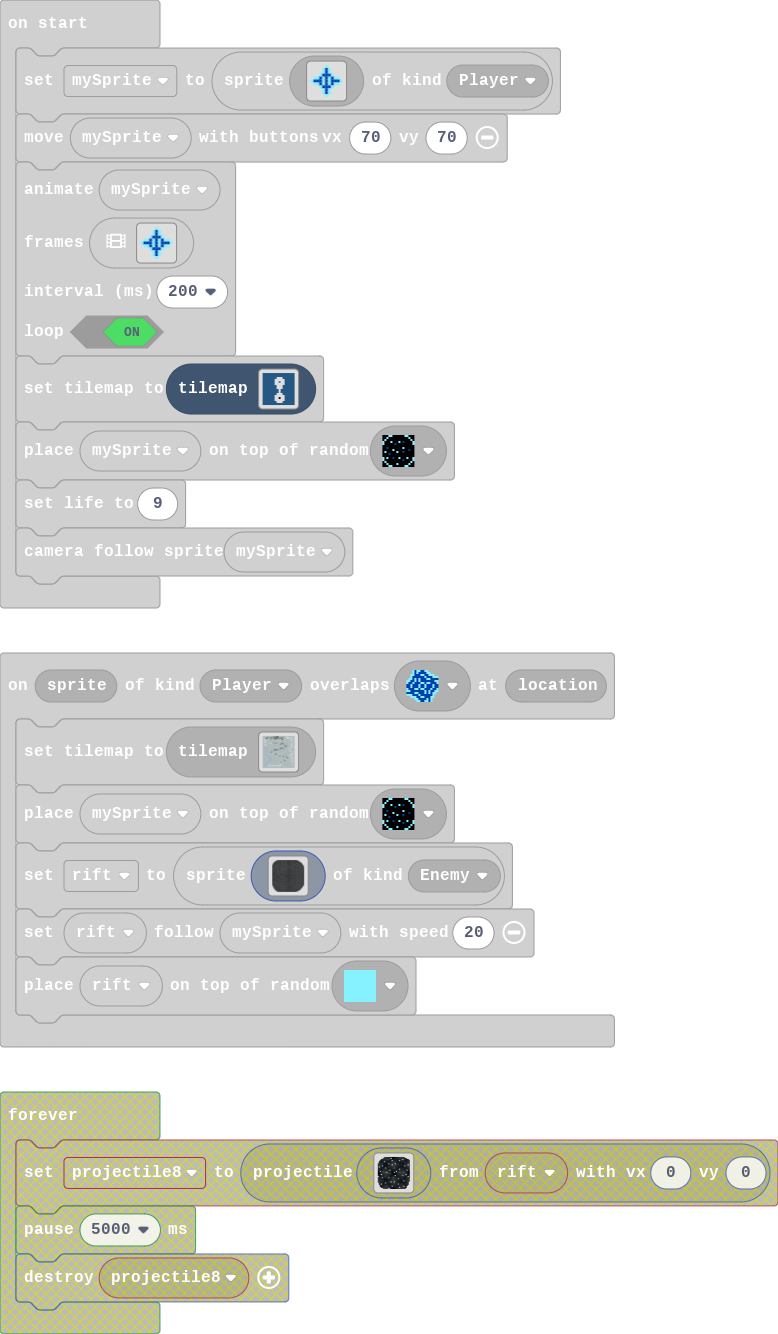
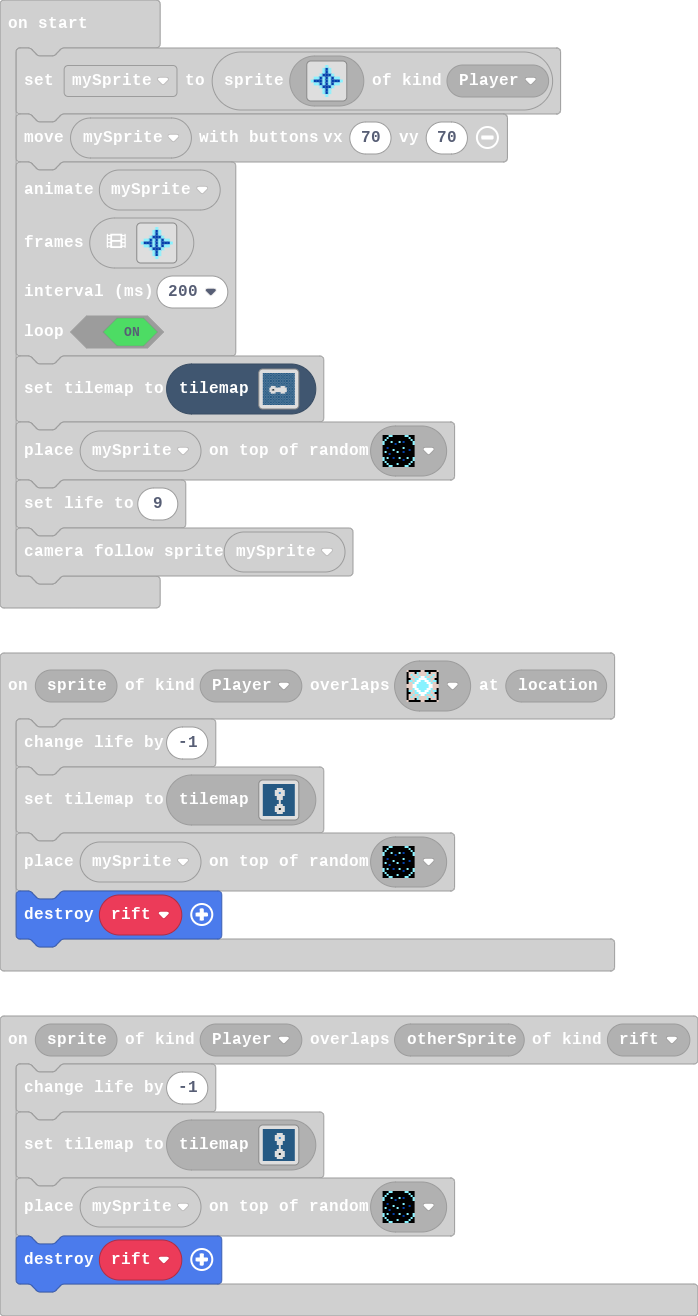
Update main.blocks, main.ts, tilemap.g.jres, tilemap.g.ts

diff --git a/tilemap.g.ts b/tilemap.g.ts
@@ -61,9 +61,9 @@ namespace myTiles {
     //% fixedInstance jres blockIdentity=images._tile
     export const tile31 = image.ofBuffer(hex``);
     //% fixedInstance jres blockIdentity=images._tile
-    export const tile28 = image.ofBuffer(hex``);
-    //% fixedInstance jres blockIdentity=images._tile
     export const tile29 = image.ofBuffer(hex``);
+    //% fixedInstance jres blockIdentity=images._tile
+    export const tile28 = image.ofBuffer(hex``);
 
     helpers._registerFactory("tilemap", function(name: string) {
         switch(helpers.stringTrim(name)) {
@@ -185,89 +185,6 @@ namespace myTiles {
 . . . . . . . . . . . . . . . . 
 . . . . . . . . . . . . . . . . 
 `, [myTiles.transparency16,myTiles.tile1,myTiles.tile2,myTiles.tile17], TileScale.Sixteen);
-            case "level10":
-            case "level10":return tiles.createTilemap(hex`5000500002020202020202020202020202020202020202020202020202020202020202020202020202020202020202020202020202020202020202020202020202020202020202020202020202020202020202020202020202020202020202020202020202020202020202020202020202020202020202020202020202020202020202020202020202020202020202020202020202020202020202020202020202020202020202020202020202020202020202020202020202020202020202020202020202020202020202020202020202020202020202020202020202020202020202020202020202020202020202020202020202020202020202020202020202020202020202020202020202020202020202020202020202020202020202020202020202020202020202020202020202020202020202020202020202020202020202020202020202020202020202020202020202020202020202020202020202020202020202020202020202020202020202020202020202020202020202020202020202020202020202020202020202020202020202020202020202020202020202020202020202020202020202020202020202020202020202020202020202020202020202020202020202020202020202020202020202020202020202020202020202020202020202020202020202020202020202020202020202020202020202020202020202020202020202020202020202020202020202020202020202020202020202020202020202020202020202020202020202020202020202020202020202020202020202020202020202020202020202020202020202020202020202020202020202020202020202020202020202020202020202020202020202020202020202020202020202020202020202020202020202020202020202020202020202020202020202020202020202020202020202020202020202020202020202020202020202020202020202020202020202020202020202020202020202020202020202020202020202020202020202020202020202020202020202020202020202020202020202020202020202020202020202020202020202020202020202020202020202020202020202020202020202020202020202020202020202020202020202020202020202020202020202020202020202020202020202020202020202020202020202020202020202020202020202020202020202020202020202020202020202020202020202020202020202020202020202020202020202020202020202020202020202020202020202020202020202020202020202020202020202020202020202020202020202020202020202020202020202020202020202020202020202020202020202020202020202020202020202020202020202020202020202020202020202020202020202020202020202020202020202020202020202020202020202020202020202020202020202020202020202020202020202020202020202020202020202020202020202020202020202020202020202020202020202020202020202020202020202020202020202020202020202020202020202020202020202020202020202020202020202020202020202020202020202020202020202020202020202020202020202020202020202020202020202020202020202020202020202020202020202020202020202020202020202020202020202020202020202020202020202020202020202020202020202020202020202020202020202020202020202020202020202020202020202020202020202020202020202020202020202020202020202020202020202020202020202020202020202020202020202020202020202020202020202020202020202020202020202020202020202020202020202020202020202020202020202020202020202020202020202020202020202020202020202020202020202020202020202020202020202020202020202020202020202020202020202020202020202020202020202020202020202020202020202020202020202020202020202020202020202020202020202020202020202020202020202020202020202020202020202020202020202020202020202020202020202020202020202020202020202020202020202020202020202020202020202020202020202020202020202020202020202020202020202020202020202020202020202020202020202020202020202020202020202020202020202020202020202020202020202020202020202020202020202020202020202020202020202020202020202020202020202020202020202020202020202020202020202020202020202020202020202020202020202020202020202020202020202020202020202020202020202020202020202020202020202020202020202020202020202020202020202020202020202020202020202020202020202020202020202020202020202020202020202020202020202020202020202020202020202020202020202020202020202020202020202020202020202020202020202020202020202020202020202030303030303030303030303030303020202020202020202020202020202020202020202020202020202020202020202020203030302020202020202020202020202020202020202020202030303030303020202020202020202020202020303030303030202020202020202020202020202020202020202020202020202020202030303030302020202020202020202020202020202020202020303020202020202030303030303030303030302020202020203030202020202020202020202020202020202020202020202020202020203030603030202020202020202020202020202020202020203030202030303030303020202020202020202030303030303020203030202020202020202020202020202020202020202020202020202020303030303020202020202020202020202020202020202030302020303020202020302020202020202020203020202020303020203030202020202020202020202020202020202020202020202020202020303030202020202020202020202020202020202020303020203030202020202030303030303030303030302020202020303020203030202020202020202020202020202020202020202020202020202020302020202020202020202020202020202020202030202030302020202020203020202020202020202030202020202020303020203020202020202020202020202020202020202020202020202020202030202020202020202020202020202020202020203020303020202030303030302030303030303030203030303030202020303020302020202020202020202020202020202020202020202020202020203020202020202020202020202020202020202020302030202020303020202020203020202020203020202020203030202020302030202020202020202020202020202020202020202020202020202020302020202020202020202020202020202020202030203020202030202030303030302020202020303030303020203020202030203020202020202020202020202020202020202020202020202020202030202020202020202020202020202020202020303020302020203020303020202030303030303030202020303020302020203020303050303030303050503030303050303030303030303020202020203020202020202020202020202020202020202030202030202020302030203030303020202020203030303020302030202020302020302020302020302020302020302020302020302020302020202020402020202020202020202020202020202020203020303030303030203020302020302020202020302020302030203030303030302030202050202030202030202030202030202050202030202020202040202020202020202020202020202020202020302030202030202020302030202030303030303030202030203020202030202030203050503030303050503050503050503030303050303020202020204020202020202020202020202020202020202030203020203020303030303030303020203020203030303030303030203020203020302020302020302020302020302020502020302020302020202020402020202020404040404020202020202020203020302020302030202030202030202030303020203020203020203020302020302030202030202050202030202030202050202030202030202020202040202020202040202020402020202020202020302030202030203020203020203020303030303020302020302020302030202030203050303030303050503050503030303050503050503020202020204040402020204020202040202040404040403030203020203020302020302020303030301030303030202030202030203020203040302020302020302020302020502020302020302020302020202020202040202020402020204020204020202020203020302020302030202030202030203030303030203020203020203020302020302030202050202030202030202050202030202030202030202020202020204020202040202020202020402020202020302030202030203020203020203020203030302020302020302020302030202030203030303050303050503030303050503050503050303020202020202020402020204020202040202040202020202030203020203020303030303030303020203020203030303030303030203020203020302020302020302020302020302020302020302020302020202020202040404040402020204040404020202020203020302020302020203020302020303030303030302020302030202020302020302030202030202030202050202030202030202030202030202020202020202020202020202020202020202020202020302030303030303020302030202030202020202030202030203020303030303030203050503030303050503030303050503030303050303020202020202020202020202020202020202020202020202030202030202020302030203030303020202020203030303020302030202020302020302020502020302020302020302020502020502020302020202020202020202020202020202020202020202020203030203020202030203030202020303030303030302020203030203020202030203030505030303030303030503030305030303030303030202020202020202020202020202020202020202020202020203020302020203020203030303030202020202030303030302020302020203020302020202020202020202020202020202020202020203020202020202020202020202020202020202020202020202020302030202020303020202020203020202020203020202020203030202020302030202020202020202020202020202020202020202020302020202020202020202020202020202020202020202020202030203030202020303030303020303030303030302030303030302020203030203020202020202020202020202020202020202020202030202020202020202020202020202020202020202020202020203020203030202020202020302020202040202020203020202020202030302020302020202020202020202020202020202020202020203020202020202020202020202020202020202020202020202020303020203030202020202030303030303030303030302020202020303020203030202020202020202020202020202020202020202020302020202020202020202020202020202020202020202020202020303020203030202020203020202020202020202030202020203030202030302020202020202020202020202020202020202020202030202020202020202020202020202020202020202020202020202020303020203030303030302020202020202020203030303030302020303020202020202020202020202020202020202020202020202020202020202020202020202020202020202020202020202020202020303020202020202030303030303030303030303020202020203030202020202020202020202020202020202020202020202020202020202020202020202020202020202020202020202020202020202020303030303030202020202020202020202020202030303030302020202020202020202020202020202020202020202020202020202020202020202020202020202020202020202020202020202020202020202020203030303030303030303030303030303020202020202020202020202020202020202020202020202020202020202020202020202020202020202020202020202020202020202020202020202020202020202020202020203020202020202020202020202020202020202020202020202020202020202020202020202020202020202020202020202020202020202020202020202020202020202020202020202020202020202020302020202020202020202020202020202020202020202020202020202020202020202020202020202020202020202020202020202020202020202020202020202020202020202020203030303030303030303030303030303020202020202020202020202020202020202020202020202020202020202020202020202020202020202020202020202020202020202020202020202020202020202030202030202020202020202020402020202020202020202020202020202020202020202020202020202020202020202020202020202020202020202020202020202020202020202020202020202020203020202020203030202030302030202020202020202020202020202020202020202020202020202020202020202020202020202020202020202020202020202020202020202020202020202020203040303030402020202020302020203020202020202020202020202020202020202020202020202020202020202020202020202020202020202020202020202020202020202020202020202020202020402020202030304030302030403030402020202020202020202020202020202020202020202020202020202020202020202020202020202020202020202020202020202020202020202020202020204030302020302020302020302030202020202020202020202020202020202020202020202020202020202020202020202020202020202020202020202020202020202020202020202020202020202020402020302030202030202030203020202020202020202020202020202020202020202020202020202020202020202020202020202020202020202020202020202020202020202020202020202020202030302030204030304030302020403030402020202020202020202020202020202020202020202020202020202020202020202020202020202020202020202020202020202020202020202020202020202040302020302020302030302020202030202020202020202020202020202020202020202020202020202020202020202020202020202020202020202020202020202020202020202020202020202020202030202030202030202020302020203020202020202020202020202020202020202020202020202020202020202020202020202020202020202020202020202020202020202020202020202020202030304030304030302020202030403030402020202020202020202020202020202020202020202020202020202020202020202020202020202020202020202020202020202020202020202020202020202020302020302020302020202030202020202020202020202020202020202020202020202020202020202020202020202020202020202020202020202020202020202020202020202020202020202020202030202030202030202020203020202020202020202020202020202020202020202020202020202020202020202020202020202020202020202020202020202020202020202020202020202020202030202030202030202020403030402020202020202020202020202020202020202020202020202020202020202020202020202020202020202020202020202020202020202020202020202020202020203020203020203020302030202020202020202020202020202020202020202020202020202020202020202020202020202020202020202020202020202020202020202020202020202020202020202020202030202030202030203020202020202020202020202020202020202020202020202020202020202020202020202020202020202020202020202020202020202020202020202020202020202020202020203020203020302020403020202020202020202020202020202020202020202020202020202020202020202020202020202020202020202020202020202020202020202020202020202020202020202030202030202030202020302020202020202020202020202020202020202020202020202020202020202020202020202020202020202020202020202020202020202020202020202020202020203030303030303030303030303040202020202020202020202020202020202020202020202020202020202020202020202020202020202020202020202020202020202020202020202020202020202020202020202020202020202020202020202020202020202020202020202020202020202020202020202020202020202020202`, img`
-................................................................................
-................................................................................
-................................................................................
-................................................................................
-................................................................................
-................................................................................
-................................................................................
-................................................................................
-................................................................................
-................................................................................
-................................................................................
-................................................................................
-................................................................................
-................................................................................
-................................................................................
-................................................................................
-................................................................................
-................................................................................
-................................................................................
-................................................................................
-................................................................................
-................................................................................
-................................................................................
-................................................................................
-................................................................................
-................................................................................
-................................................................................
-................................................................................
-................................................................................
-................................................................................
-................................................................................
-................................................................................
-................................................................................
-................................................................................
-................................................................................
-................................................................................
-................................................................................
-................................................................................
-................................................................................
-................................................................................
-................................................................................
-................................................................................
-................................................................................
-................................................................................
-................................................................................
-................................................................................
-................................................................................
-................................................................................
-................................................................................
-................................................................................
-................................................................................
-................................................................................
-................................................................................
-................................................................................
-................................................................................
-................................................................................
-................................................................................
-................................................................................
-................................................................................
-................................................................................
-................................................................................
-................................................................................
-................................................................................
-................................................................................
-................................................................................
-................................................................................
-................................................................................
-................................................................................
-................................................................................
-................................................................................
-................................................................................
-................................................................................
-................................................................................
-................................................................................
-................................................................................
-................................................................................
-................................................................................
-................................................................................
-................................................................................
-................................................................................
-`, [myTiles.transparency16,myTiles.tile2,myTiles.tile18,myTiles.tile19,myTiles.tile20,myTiles.tile21,myTiles.tile22], TileScale.Sixteen);
             case "level11":
             case "level11":return tiles.createTilemap(hex`1000100000000000000000000000000000000000000000000000000000000000000000000000000000000000000000000000000000000000000000000000000000000000000000000000000000000000000000000000000000000000000000000000000000000000000000000000000000000000000000000000000000000000000000000000000000000000000000000000000000000000000000000000000000000000000000000000000000000000000000000000000000000000000000000000000000000000000000000000000000000000000000000000000000000000000000000000000000000000000000000000000000000000000000000000000000000000`, img`
 . . . . . . . . . . . . . . . . 
@@ -600,25 +517,6 @@ namespace myTiles {
 ....................
 ....................
 `, [myTiles.transparency16,myTiles.tile1,myTiles.tile2,sprites.dungeon.collectibleBlueCrystal,myTiles.tile10,myTiles.tile28], TileScale.Sixteen);
-            case "level19":
-            case "level19":return tiles.createTilemap(hex`1000100001010101010101010101010101010101010101010101010101010101010101010101010101010100000001010101010101010101010100000000000101010101010101010101000003000001010101010101010101010000000000010101010101010101010101000000010101010101010101010101010000000101010101010101010101010101000101010101010101010101010101010001010101010101010101010101010000000101010101010101010101010000000000010101010101010101010100000200000101010101010101010101000000000001010101010101010101010100000001010101010101010101010101010101010101010101`, img`
-. . . . . . . . . . . . . . . . 
-. . . . . . . . . . . . . . . . 
-. . . . . . . . . . . . . . . . 
-. . . . . . . . . . . . . . . . 
-. . . . . . . . . . . . . . . . 
-. . . . . . . . . . . . . . . . 
-. . . . . . . . . . . . . . . . 
-. . . . . . . . . . . . . . . . 
-. . . . . . . . . . . . . . . . 
-. . . . . . . . . . . . . . . . 
-. . . . . . . . . . . . . . . . 
-. . . . . . . . . . . . . . . . 
-. . . . . . . . . . . . . . . . 
-. . . . . . . . . . . . . . . . 
-. . . . . . . . . . . . . . . . 
-. . . . . . . . . . . . . . . . 
-`, [myTiles.transparency16,myTiles.tile1,myTiles.tile2,myTiles.tile27,myTiles.tile28], TileScale.Sixteen);
             case "level20":
[1 lines of base64/hex data omitted]
 ..........................................................................................
@@ -712,6 +610,108 @@ namespace myTiles {
 ..........................................................................................
 ..........................................................................................
 `, [myTiles.transparency16,myTiles.tile2,myTiles.tile19,myTiles.tile21,myTiles.tile28,myTiles.tile29,myTiles.tile7,myTiles.tile13,myTiles.tile30,myTiles.tile6,myTiles.tile9,myTiles.tile8,myTiles.tile12,myTiles.tile14,myTiles.tile15,myTiles.tile16,myTiles.tile31], TileScale.Sixteen);
+            case "level10":
+            case "level10":return tiles.createTilemap(hex`5000500002020202020202020202020202020202020202020202020202020202020202020202020202020202020202020202020202020202020202020202020202020202020202020202020202020202020202020202020202020202020202020202020202020202020202020202020202020202020202020202020202020202020202020202020202020202020202020202020202020202020202020202020202020202020202020202020202020202020202020202020202020202020202020202020202020202020202020202020202020202020202020202020202020202020202020202020202020202020202020202020202020202020202020202020202020202020202020202020202020202020202020202020202020202020202020202020202020202020202020202020202020202020202020202020202020202020202020202020202020202020202020202020202020202020202020202020202020202020202020202020202020202020202020202020202020202020202020202020202020202020202020202020202020202020202020202020202020202020202020202020202020202020202020202020202020202020202020202020202020202020202020202020202020202020202020202020202020202020202020202020202020202020202020202020202020202020202020202020202020202020202020202020202020202020202020202020202020202020202020202020202020202020202020202020202020202020202020202020202020202020202020202020202020202020202020202020202020202020202020202020202020202020202020202020202020202020202020202020202020202020202020202020202020202020202020202020202020202020202020202020202020202020202020202020202020202020202020202020202020202020202020202020202020202020202020202020202020202020202020202020202020202020202020202020202020202020202020202020202020202020202020202020202020202020202020202020202020202020202020202020202020202020202020202020202020202020202020202020202020202020202020202020202020202020202020202020202020202020202020202020202020202020202020202020202020202020202020202020202020202020202020202020202020202020202020202020202020202020202020202020202020202020202020202020202020202020202020202020202020202020202020202020202020202020202020202020202020202020202020202020202020202020202020202020202020202020202020202020202020202020202020202020202020202020202020202020202020202020202020202020202020202020202020202020202020202020202020202020202020202020202020202020202020202020202020202020202020202020202020202020202020202020202020202020202020202020202020202020202020202020202020202020202020202020202020202020202020202020202020202020202020202020202020202020202020202020202020202020202020202020202020202020202020202020202020202020202020202020202020202020202020202020202020202020202020202020202020202020202020202020202020202020202020202020202020202020202020202020202020202020202020202020202020202020202020202020202020202020202020202020202020202020202020202020202020202020202020202020202020202020202020202020202020202020202020202020202020202020202020202020202020202020202020202020202020202020202020202020202020202020202020202020202020202020202020202020202020202020202020202020202020202020202020202020202020202020202020202020202020202020202020202020202020202020202020202020202020202020202020202020202020202020202020202020202020202020202020202020202020202020202020202020202020202020202020202020202020202020202020202020202020202020202020202020202020202020202020202020202020202020202020202020202020202020202020202020202020202020202020202020202020202020202020202020202020202020202020202020202020202020202020202020202020202020202020202020202020202020202020202020202020202020202020202020202020202020202020202020202020202020202020202020202020202020202020202020202020202020202020202020202020202020202020202020202020202020202020202020202020202020202020202020202020202020202020202020202020202020202020202020202020202020202020202020202020202020202020202020202020202020202020202020202020202020202020202020202020202020202020202020202020202020202020202020202020202020202020202020202020202020202020202020202020202020202030303030303030303030303030303020202020202020202020202020202020202020202020202020202020202020202020203030302020202020202020202020202020202020202020202030303030303020202020202020202020202020303030303030202020202020202020202020202020202020202020202020202020202030303030302020202020202020202020202020202020202020303020202020202030303030303030303030302020202020203030202020202020202020202020202020202020202020202020202020203030603030202020202020202020202020202020202020203030202030303030303020202020202020202030303030303020203030202020202020202020202020202020202020202020202020202020303030303020202020202020202020202020202020202030302020303020202020302020202020202020203020202020303020203030202020202020202020202020202020202020202020202020202020303030202020202020202020202020202020202020303020203030202020202030303030303030303030302020202020303020203030202020202020202020202020202020202020202020202020202020302020202020202020202020202020202020202030202030302020202020203020202020202020202030202020202020303020203020202020202020202020202020202020202020202020202020202030202020202020202020202020202020202020203020303020202030303030302030303030303030203030303030202020303020302020202020202020202020202020202020202020202020202020203020202020202020202020202020202020202020302030202020303020202020203020202020203020202020203030202020302030202020202020202020202020202020202020202020202020202020302020202020202020202020202020202020202030203020202030202030303030302020202020303030303020203020202030203020202020202020202020202020202020202020202020202020202030202020202020202020202020202020202020303020302020203020303020202030303030303030202020303020302020203020303050303030303050503030303050303030303030303020202020203020202020202020202020202020202020202030202030202020302030203030303020202020203030303020302030202020302020302020302020302020302020302020302020302020302020202020402020202020202020202020202020202020203020303030303030203020302020302020202020302020302030203030303030302030202050202030202030202030202030202050202030202020202040202020202020202020202020202020202020302030202030202020302030202030303030303030202030203020202030202030203050503030303050503050503050503030303050303020202020204020202020202020202020202020202020202030203020203020303030303030303020203020203030303030303030203020203020302020302020302020302020302020502020302020302020202020402020202020404040404020202020202020203020302020302030202030202030202030303020203020203020203020302020302030202030202050202030202030202050202030202030202020202040202020202040202020402020202020202020302030202030203020203020203020303030303020302020302020302030202030203050303030303050503050503030303050503050503020202020204040402020204020202040202040404040403030203020203020302020302020303030301030303030202030202030203020203040302020302020302020302020502020302020302020302020202020202040202020402020204020204020202020203020302020302030202030202030203030303030203020203020203020302020302030202050202030202030202050202030202030202030202020202020204020202040202020202020402020202020302030202030203020203020203020203030302020302020302020302030202030203030303050303050503030303050503050503050303020202020202020402020204020202040202040202020202030203020203020303030303030303020203020203030303030303030203020203020302020302020302020302020302020302020302020302020202020202040404040402020204040404020202020203020302020302020203020302020303030303030302020302030202020302020302030202030202030202050202030202030202030202030202020202020202020202020202020202020202020202020302030303030303020302030202030202020202030202030203020303030303030203050503030303050503030303050503030303050303020202020202020202020202020202020202020202020202030202030202020302030203030303020202020203030303020302030202020302020302020502020302020302020302020502020502020302020202020202020202020202020202020202020202020203030203020202030203030202020303030303030302020203030203020202030203030505030303030303030503030305030303030303030202020202020202020202020202020202020202020202020203020302020203020203030303030202020202030303030302020302020203020302020202020202020202020202020202020202020203020202020202020202020202020202020202020202020202020302030202020303020202020203020202020203020202020203030202020302030202020202020202020202020202020202020202020302020202020202020202020202020202020202020202020202030203030202020303030303020303030303030302030303030302020203030203020202020202020202020202020202020202020202030202020202020202020202020202020202020202020202020203020203030202020202020302020202040202020203020202020202030302020302020202020202020202020202020202020202020203020202020202020202020202020202020202020202020202020303020203030202020202030303030303030303030302020202020303020203030202020202020202020202020202020202020202020302020202020202020202020202020202020202020202020202020303020203030202020203020202020202020202030202020203030202030302020202020202020202020202020202020202020202030202020202020202020202020202020202020202020202020202020303020203030303030302020202020202020203030303030302020303020202020202020202020202020202020202020202020202020202020202020202020202020202020202020202020202020202020303020202020202030303030303030303030303020202020203030202020202020202020202020202020202020202020202020202020202020202020202020202020202020202020202020202020202020303030303030202020202020202020202020202030303030302020202020202020202020202020202020202020202020202020202020202020202020202020202020202020202020202020202020202020202020203030303030303030303030303030303020202020202020202020202020202020202020202020202020202020202020202020202020202020202020202020202020202020202020202020202020202020202020202020203020202020202020202020202020202020202020202020202020202020202020202020202020202020202020202020202020202020202020202020202020202020202020202020202020202020202020302020202020202020202020202020202020202020202020202020202020202020202020202020202020202020202020202020202020202020202020202020202020202020202020203030303030303030303030303030303020202020202020202020202020202020202020202020202020202020202020202020202020202020202020202020202020202020202020202020202020202020202030202030202020202020202020402020202020202020202020202020202020202020202020202020202020202020202020202020202020202020202020202020202020202020202020202020202020203020202020203030202030302030202020202020202020202020202020202020202020202020202020202020202020202020202020202020202020202020202020202020202020202020202020203040303030402020202020302020203020202020202020202020202020202020202020202020202020202020202020202020202020202020202020202020202020202020202020202020202020202020402020202030304030302030403030402020202020202020202020202020202020202020202020202020202020202020202020202020202020202020202020202020202020202020202020202020204030302020302020302020302030202020202020202020202020202020202020202020202020202020202020202020202020202020202020202020202020202020202020202020202020202020202020402020302030202030202030203020202020202020202020202020202020202020202020202020202020202020202020202020202020202020202020202020202020202020202020202020202020202030302030204030304030302020403030402020202020202020202020202020202020202020202020202020202020202020202020202020202020202020202020202020202020202020202020202020202040302020302020302030302020202030202020202020202020202020202020202020202020202020202020202020202020202020202020202020202020202020202020202020202020202020202020202030202030202030202020302020203020202020202020202020202020202020202020202020202020202020202020202020202020202020202020202020202020202020202020202020202020202030304030304030302020202030403030402020202020202020202020202020202020202020202020202020202020202020202020202020202020202020202020202020202020202020202020202020202020302020302020302020202030202020202020202020202020202020202020202020202020202020202020202020202020202020202020202020202020202020202020202020202020202020202020202030202030202030202020203020202020202020202020202020202020202020202020202020202020202020202020202020202020202020202020202020202020202020202020202020202020202030202030202030202020403030402020202020202020202020202020202020202020202020202020202020202020202020202020202020202020202020202020202020202020202020202020202020203020203020203020302030202020202020202020202020202020202020202020202020202020202020202020202020202020202020202020202020202020202020202020202020202020202020202020202030202030202030203020202020202020202020202020202020202020202020202020202020202020202020202020202020202020202020202020202020202020202020202020202020202020202020203020203020302020403020202020202020202020202020202020202020202020202020202020202020202020202020202020202020202020202020202020202020202020202020202020202020202030202030202030202020302020202020202020202020202020202020202020202020202020202020202020202020202020202020202020202020202020202020202020202020202020202020203030303030303030303030303040202020202020202020202020202020202020202020202020202020202020202020202020202020202020202020202020202020202020202020202020202020202020202020202020202020202020202020202020202020202020202020202020202020202020202020202020202020202020202`, img`
+................................................................................
+................................................................................
+................................................................................
+................................................................................
+................................................................................
+................................................................................
+................................................................................
+................................................................................
+................................................................................
+................................................................................
+................................................................................
+................................................................................
+................................................................................
+................................................................................
+................................................................................
+................................................................................
+................................................................................
+................................................................................
+................................................................................
+................................................................................
+................................................................................
+................................................................................
+................................................................................
+................................................................................
+................................................................................
+................................................................................
+................................................................................
+................................................................................
+................................................................................
+................................................................................
+................................................................................
+................................................................................
+................................................................................
+................................................................................
+................................................................................
+................................................................................
+................................................................................
+................................................................................
+................................................................................
+................................................................................
+................................................................................
+................................................................................
+................................................................................
+................................................................................
+................................................................................
+................................................................................
+................................................................................
+................................................................................
+................................................................................
+................................................................................
+................................................................................
+................................................................................
+................................................................................
+................................................................................
+................................................................................
+................................................................................
+................................................................................
+................................................................................
+................................................................................
+................................................................................
+................................................................................
+................................................................................
+................................................................................
+................................................................................
+................................................................................
+................................................................................
+................................................................................
+................................................................................
+................................................................................
+................................................................................
+................................................................................
+................................................................................
+................................................................................
+................................................................................
+................................................................................
+................................................................................
+................................................................................
+................................................................................
+................................................................................
+................................................................................
+`, [myTiles.transparency16,myTiles.tile2,myTiles.tile18,myTiles.tile19,myTiles.tile20,myTiles.tile21,myTiles.tile22,myTiles.tile28], TileScale.Sixteen);
+            case "level19":
+            case "level19":return tiles.createTilemap(hex`1000100001010101010101010101010101010101010101010101010101010101010101010101010101010100000001010101010101010101010100000000000101010101010101010101000003000001010101010101010101010000000000010101010101010101010101000000010101010101010101010101010000000101010101010101010101010101000101010101010101010101010101010001010101010101010101010101010000000101010101010101010101010000000000010101010101010101010100000200000101010101010101010101000000000001010101010101010101010100000001010101010101010101010101010101010101010101`, img`
+. . . . . . . . . . . . . . . . 
+. . . . . . . . . . . . . . . . 
+. . . . . . . . . . . . . . . . 
+. . . . . . . . . . . . . . . . 
+. . . . . . . . . . . . . . . . 
+. . . . . . . . . . . . . . . . 
+. . . . . . . . . . . . . . . . 
+. . . . . . . . . . . . . . . . 
+. . . . . . . . . . . . . . . . 
+. . . . . . . . . . . . . . . . 
+. . . . . . . . . . . . . . . . 
+. . . . . . . . . . . . . . . . 
+. . . . . . . . . . . . . . . . 
+. . . . . . . . . . . . . . . . 
+. . . . . . . . . . . . . . . . 
+. . . . . . . . . . . . . . . . 
+`, [myTiles.transparency16,myTiles.tile1,myTiles.tile2,myTiles.tile27], TileScale.Sixteen);
         }
         return null;
     })
@@ -777,10 +777,10 @@ namespace myTiles {
             case "tile10":return tile10;
             case "myTile29":
             case "tile31":return tile31;
-            case "myTile26":
-            case "tile28":return tile28;
             case "myTile27":
             case "tile29":return tile29;
+            case "myTile26":
+            case "tile28":return tile28;
         }
         return null;
     })

diff --git a/main.ts b/main.ts
@@ -344,11 +344,13 @@ sprites.onOverlap(SpriteKind.Player, SpriteKind.rift, function (sprite, otherSpr
     info.changeLifeBy(-1)
     tiles.setCurrentTilemap(tilemap`level19`)
     tiles.placeOnRandomTile(mySprite, assets.tile`myTile0`)
+    sprites.destroy(rift)
 })
 scene.onOverlapTile(SpriteKind.Player, assets.tile`myTile26`, function (sprite, location) {
     info.changeLifeBy(-1)
     tiles.setCurrentTilemap(tilemap`level19`)
     tiles.placeOnRandomTile(mySprite, assets.tile`myTile0`)
+    sprites.destroy(rift)
 })
 scene.onOverlapTile(SpriteKind.Player, assets.tile`myTile28`, function (sprite, location) {
     info.changeScoreBy(3)
@@ -446,7 +448,7 @@ mySprite,
 200,
 true
 )
-tiles.setCurrentTilemap(tilemap`level19`)
+tiles.setCurrentTilemap(tilemap`level1`)
 tiles.placeOnRandomTile(mySprite, assets.tile`myTile0`)
 info.setLife(9)
 scene.cameraFollowSprite(mySprite)
